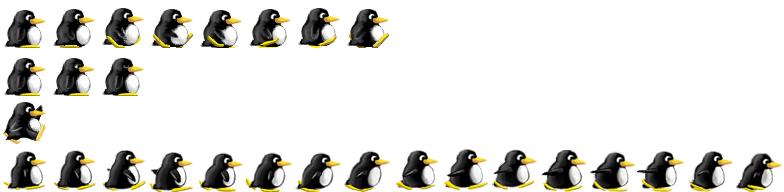
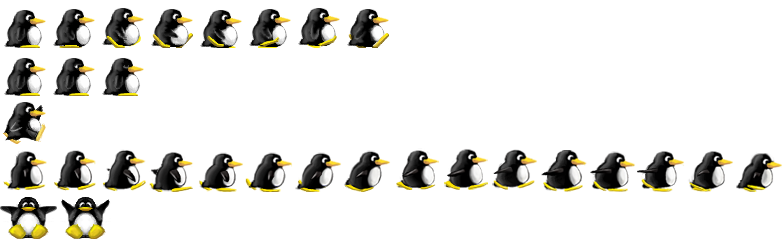
tux jumps and dies

Changed region(s): [[0.0, 0.0312, 1.0, 1.0]]

diff --git a/src/objects/player.js b/src/objects/player.js
@@ -1,30 +1,86 @@
 
 import { Item } from './item.js';
 
-
+/**
+ * Represents a (controllable) player
+ * @param {Game} game Game which the player is in
+ * @param {int} x x coord in the game
+ * @param {int} y y coord in the game
+ */
 export function Player(game, x=0, y=0) {
     Item.call(this, game, "data/images/tux.png", 8, x, y, 49, 48);
-    this.hSpeed = -300;
+    this.vSpeed = -300;
+    this.dead = false;
 }
 Player.prototype = Object.create(Item.prototype);
 Player.prototype.constructor = Player;
 
 Player.prototype.run = function() {
-    let falling = true;
+
+
+    // jump
+    if (this.game.keyboard.keymap[32] && this.vSpeed === 0 && !this.dead) {
+        this.vSpeed = - 500;
+    }
+    // fall
+    this.vSpeed += 640*this.game.deltaTime;
+    
+    this.y+=this.vSpeed*this.game.deltaTime;
+
+    // vertical collision
     for (let item of this.game.items) {
         if (item === this) {
             continue;
         }
         if (this.collidesWith(item)) {
-            falling = false;
-            break;
+            let offset = item.height/2 + this.height/2
+            if (this.vSpeed > 0) {
+                this.y = item.y - offset;
+            } else {
+                this.y = item.y + offset;
+            }
+            this.vSpeed = 0;
         }
     }
-    if (falling) {
-        this.hSpeed += 640*this.game.deltaTime;
-    } else {
-        this.hSpeed = 0;
+
+    // walk
+    let hSpeed = 0;
+    if (this.game.keyboard.keymap[37] && !this.dead) {
+        hSpeed = - 300 * this.game.deltaTime;
     }
-    console.log(this.hSpeed);
-    this.y+=this.hSpeed*this.game.deltaTime;
+    if (this.game.keyboard.keymap[39] && !this.dead) {
+        hSpeed = 300 * this.game.deltaTime;
+    }
+    this.x += hSpeed;
+
+    // horizontal collision
+    for (let item of this.game.items) {
+        if (item === this) {
+            continue;
+        }
+        if (this.collidesWith(item)) {
+            let offset = item.width/2 + this.width/2
+            if (this.hSpeed > 0) {
+                this.x = item.x - offset;
+            } else {
+                this.x = item.x + offset;
+            }
+        }
+    }
+
+
+    // die under 800
+    if (this.y > this.game.height && ! this.dead) {
+        this.sprite.setNumTiles(2);
+        this.sprite.setRow(4);
+        this.width = 57;
+        this.sprite.setWidth(this.width);
+        this.vSpeed = - 1000;
+        this.dead = true;
+    }
+
+    // register debugging output
+    this.game.debug.register("PlayerX", this.x);
+    this.game.debug.register("PlayerY", this.y);
+    this.game.debug.register("vSpeed", this.vSpeed);
 }

diff --git a/src/main.js b/src/main.js
@@ -1,5 +1,8 @@
 
+import { Keyboard } from './mechanics/keyboard.js';
+import { Debug } from './objects/debug.js';
 import { Player } from './objects/player.js';
+import { Background } from './objects/world/background.js';
 import { Block } from './objects/world/block.js';
 
 var game = {
@@ -9,7 +12,14 @@ var game = {
     timestamp: -1,
     deltaTime: 0,
 
+    height: 972,
+    width: 1580,
+
     items: new Array(),
+
+    debug: null,
+    keyboard: null,
+    background: null,
 
     attach: function(item) {
         this.items.push(item);
@@ -18,9 +28,14 @@ var game = {
     render: function() {
 
         game.ctx.clearRect(0,0,game.ctx.canvas.width, game.ctx.canvas.height);
+
+        this.background.render();
+
         for(let item of this.items) {
             item.render();
         }
+
+        this.debug.render();
     
     },
 
@@ -44,16 +59,17 @@ var game = {
     },
 
     fullscreen: function() {
-        this.ctx.canvas.width = window.innerWidth;
-        this.ctx.canvas.height = window.innerHeight;
+        this.canvas.width = window.innerWidth;
+        this.canvas.height = window.innerHeight;
+        this.ctx.canvas.width = this.width;
+        this.ctx.canvas.height = this.height;
         this.render();
     }
 }
 
-
 export function main() {
 
-    game.canvas = document.getElementById("game");
+    game.canvas = document.getElementById("canvas");
     game.ctx = game.canvas.getContext("2d");
 
     game.attach(new Player(game, 100, 100));
@@ -62,7 +78,15 @@ export function main() {
         game.attach(new Block(game, 32*i + 16, 500));
     }
 
-    game.fullscreen();
+    game.debug = new Debug(game);
 
+    game.keyboard = new Keyboard(game);
+
+    game.background = new Background(game, "data/images/backgrounds/nighthills.png");
+
+    window.addEventListener("resize", game.fullscreen.bind(game));
+    game.fullscreen();
     window.requestAnimationFrame(game.run.bind(game));
+
+
 }

diff --git a/src/objects/item.js b/src/objects/item.js
@@ -1,22 +1,32 @@
 
 import { Sprite } from '../gui/sprite.js';
+import { Element } from './element.js';
 
-
+/**
+ * Represents a sprite based element
+ * @param {Game} game Game which the player is in
+ * @param {String} src Source of the spritesheet
+ * @param {int} numTiles number of tiles within current row
+ * @param {int} x x coord in the game
+ * @param {int} y y coord in the game
+ * @param {int} width width of the item
+ * @param {int} height height of the item
+ */
 export function Item(game, src, numTiles, x=0, y=0, width = 32, height = 32) {
-    this.game = game;
-    this.x = x;
-    this.y = y;
+    Element.call(this, game, x, y);
     this.height = height;
     this.width = width;
     this.sprite = new Sprite(game, src, width, height);
     this.sprite.setNumTiles(numTiles);
 }
+Item.prototype = Object.create(Element.prototype);
+Item.prototype.constructor = Item;
 
 Item.prototype.render = function() {
     this.sprite.render(this.x, this.y);
 }
-Item.prototype.collidesWith = function(item) {
-    
+
+Item.prototype.collidesWith = function(item) {    
     let myLeft = this.x - this.width/2;
     let myRight = this.x + this.width/2;
     let myTop = this.y - this.height/2;
@@ -32,4 +42,3 @@ Item.prototype.collidesWith = function(item) {
 
     return false;
 }
-Item.prototype.run = function() {}

diff --git a/src/gui/sprite.js b/src/gui/sprite.js
@@ -6,11 +6,18 @@ export function Sprite(game, src, width = 32, height= 32) {
     this.numTiles = 0;
     this.width = width;
     this.height = height;
+    this.row = 0;
 }
 Sprite.prototype.setNumTiles = function(num) {
     this.numTiles = num;
 }
+Sprite.prototype.setRow = function(row) {
+    this.row = row;
+}
+Sprite.prototype.setWidth = function(width) {
+    this.width = width;
+}
 Sprite.prototype.render = function(x, y) {
     let index = this.game.tick % this.numTiles;
-    this.game.ctx.drawImage(this.img, this.width * index, 0, this.width, this.height, x - this.width/2, y - this.height/2, this.width, this.height);
+    this.game.ctx.drawImage(this.img, this.width * index, this.height * this.row, this.width, this.height, x - this.width/2, y - this.height/2, this.width, this.height);
 }

diff --git a/src/objects/debug.js b/src/objects/debug.js
@@ -1,0 +1,23 @@
+
+import { Element } from './element.js';
+
+export function Debug(game) {
+    Element.call(this, game, 0, 0);
+    this.registry = {};
+}
+Debug.prototype = Object.create(Element.prototype);
+Debug.prototype.constructor = Debug;
+
+Debug.prototype.render = function() {
+    let fillStyle = this.game.ctx.fillStyle;
+    this.game.ctx.fillStyle = "white";
+    let i = 0;
+    for (const [key, value] of Object.entries(this.registry)) {
+        this.game.ctx.fillText(`${key}: ${value}`, 10, 10+(i++)*12);
+    }
+    this.game.ctx.fillStyle = fillStyle;
+}
+
+Debug.prototype.register = function(key, value) {
+    this.registry[key] = value;
+}

diff --git a/src/mechanics/keyboard.js b/src/mechanics/keyboard.js
@@ -1,0 +1,16 @@
+
+export function Keyboard(game) {
+    this.game = game;
+    this.keymap = new Array();
+    window.addEventListener("keydown", this.keydown.bind(this));
+    window.addEventListener("keyup", this.keyup.bind(this));
+}
+
+Keyboard.prototype.keydown = function(event) {
+    this.keymap[event.keyCode] = true;
+    this.game.debug.register("keymap", this.keymap);
+}
+Keyboard.prototype.keyup = function(event) {
+    this.keymap[event.keyCode] = false;
+    this.game.debug.register("keymap", this.keymap);
+}

diff --git a/src/objects/world/background.js b/src/objects/world/background.js
@@ -1,0 +1,14 @@
+
+import { Element } from '../element.js';
+
+export function Background(game, src) {
+    Element.call(this, game, 0, 0);
+    this.img = document.createElement('img');
+    this.img.src = src;
+}
+Background.prototype = Object.create(Element.prototype);
+Background.prototype.constructor = Background;
+
+Background.prototype.render = function() {
+    this.game.ctx.drawImage(this.img, 0, 0);
+}

diff --git a/src/objects/element.js b/src/objects/element.js
@@ -1,0 +1,14 @@
+/**
+ * Represents a sprite based element
+ * @param {Game} game Game which the player is in
+ * @param {int} x x coord in the game
+ * @param {int} y y coord in the game
+ */
+export function Element(game, x=0, y=0) {
+    this.game = game;
+    this.x = x;
+    this.y = y;
+}
+
+Element.prototype.render = function() {}
+Element.prototype.run = function() {}

diff --git a/index.html b/index.html
@@ -7,7 +7,7 @@
     </head>
 
     <body>
-        <canvas id="game">
+        <canvas id="canvas">
 
         </canvas>
     </body>

diff --git a/index.css b/index.css
@@ -1,6 +1,6 @@
 
-#game {
+#canvas {
     position: absolute;
-    left: 0;
-    top: 0;
+    left: 50;
+    top: 50;
 }
